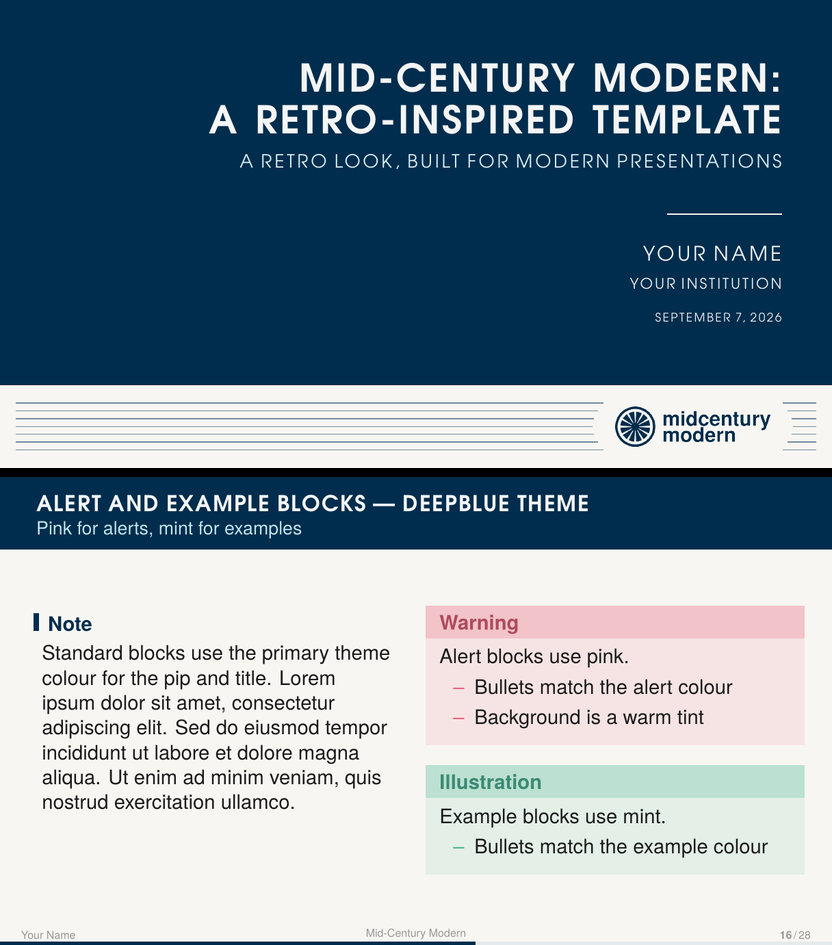
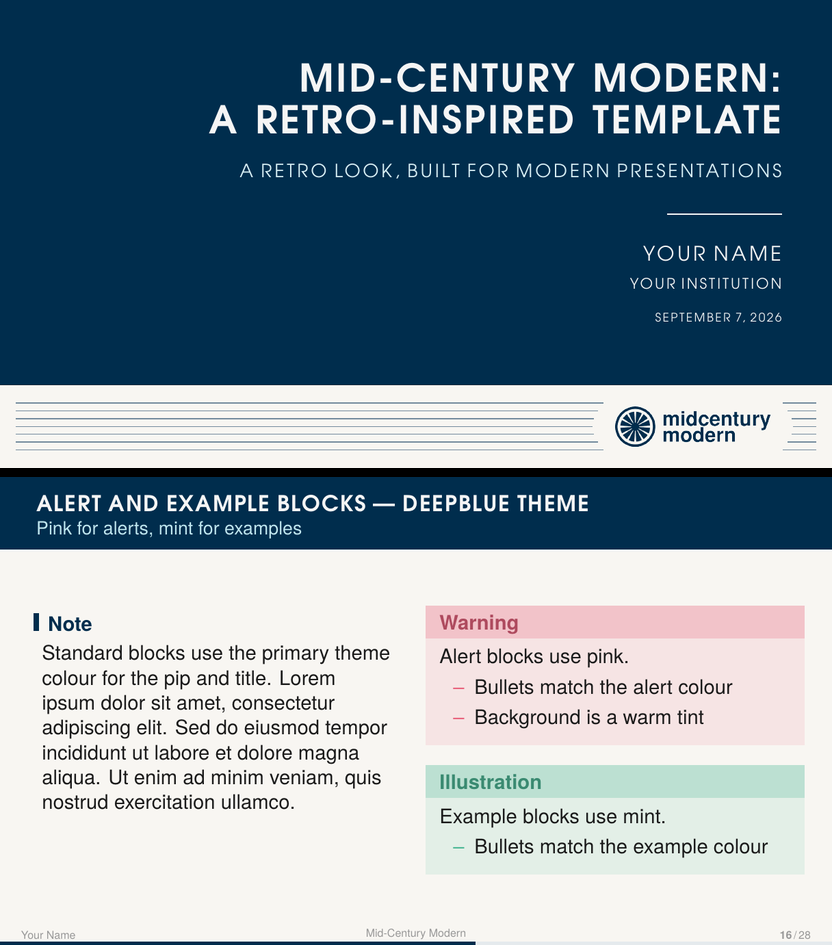
Rebalance the title page's subtitle, and refresh the QA baselines
Jules: the subtitle sits too close to the title and too far from the rule.
Measured on the render, ink to ink, he was reading a 2.2x imbalance — 29px
above the subtitle against 65px below it — where the source said "0.22 tight
above, 0.42 and 0.42 equal on either side of the rule". Nominal lengths are
not what the eye gets: an all-caps subtitle has no descenders, so the white
under its baseline is not the white its line box implies, and the author's
capitals start sooner than 0.42cm suggests. The rule was 65px under the
subtitle and 45px over the author, nothing like centred.

0.40 / 0.24 gives 43px and 51px around the subtitle, and 51 / 45 around the
rule. The subtitle still belongs to the title, and the rule is now near enough
centred in its own white. Their sum is what the auto-fit sees, so holding it
at 0.64cm moves nothing below the rule by a single pixel — the whole change is
one line of white redistributed.

test/titlepage.tex cases 01 and 21 are the demo's own metadata, and had kept
the retired subtitle. They now mirror demo.tex again, which is the only reason
those two cases exist.

Claude Opus 5

Changed region(s): [[0.2812, 0.1534, 0.9375, 0.1841]]

diff --git a/test/titlepage.tex b/test/titlepage.tex
@@ -61,7 +61,7 @@
 
 % ---------------------------------------------------------------- 01 baseline
 \title{Mid-Century Modern:\\A Retro-Inspired Template}
-\subtitle{A beamer template for strong and original presentations}
+\subtitle{A retro look, built for modern presentations}
 \author{Your Name}
 \institute{Your Institution}
 \date{\today}
@@ -229,7 +229,7 @@
 % -------------------------------------------------------- 21 DeepBlue baseline
 \mcmTheme{DeepBlue}
 \title{Mid-Century Modern:\\A Retro-Inspired Template}
-\subtitle{A beamer template for strong and original presentations}
+\subtitle{A retro look, built for modern presentations}
 \author{Your Name}
 \institute{Your Institution}
 \date{\today}
